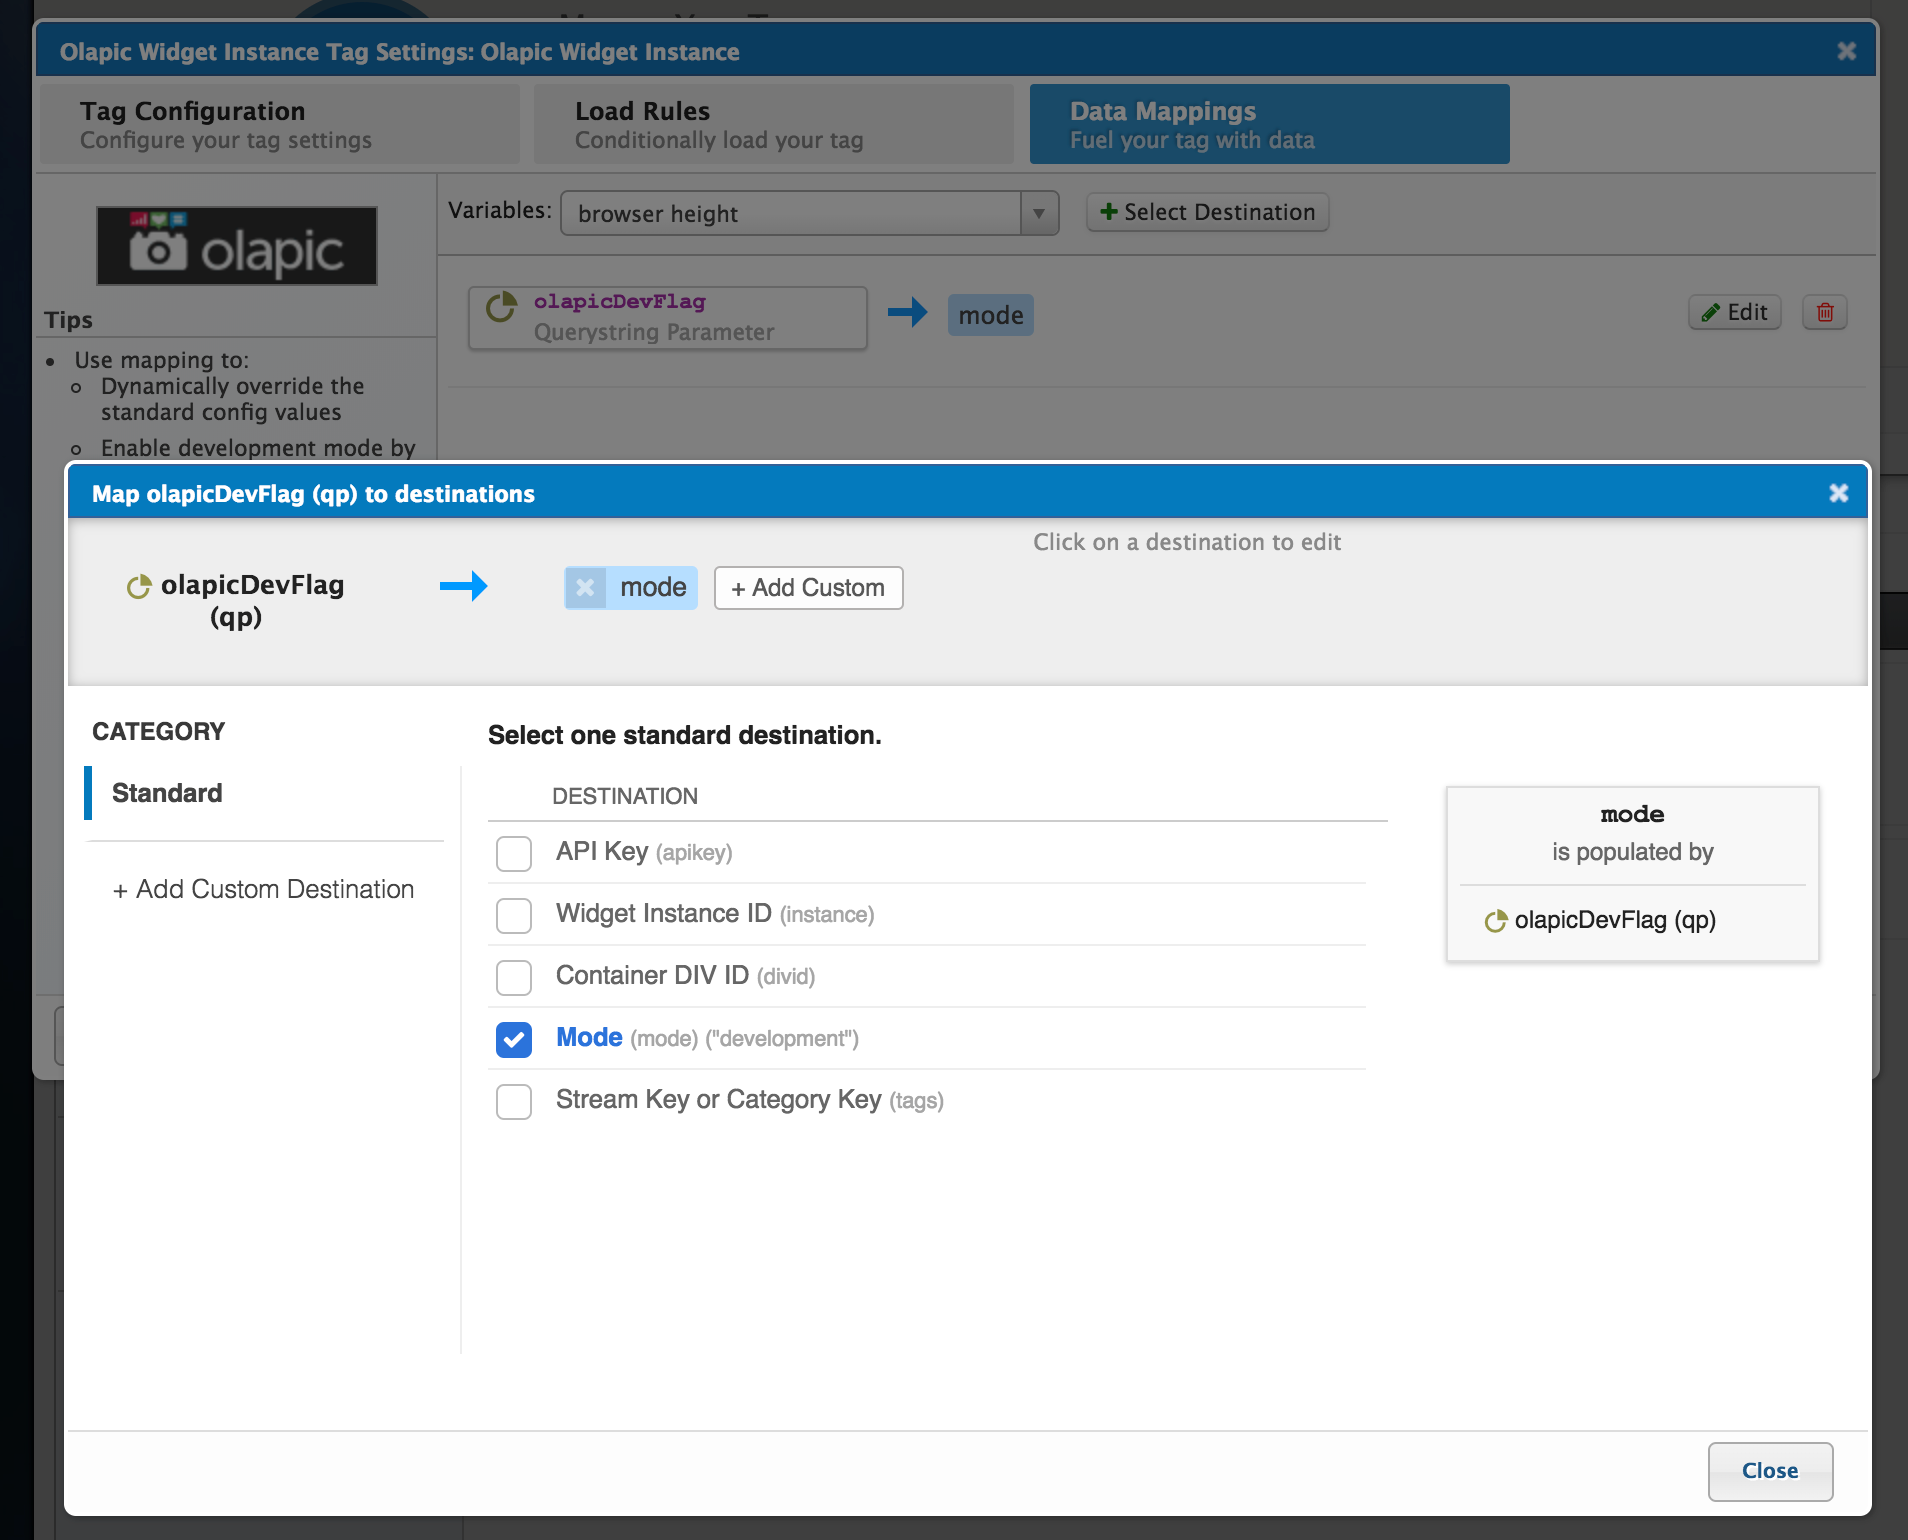
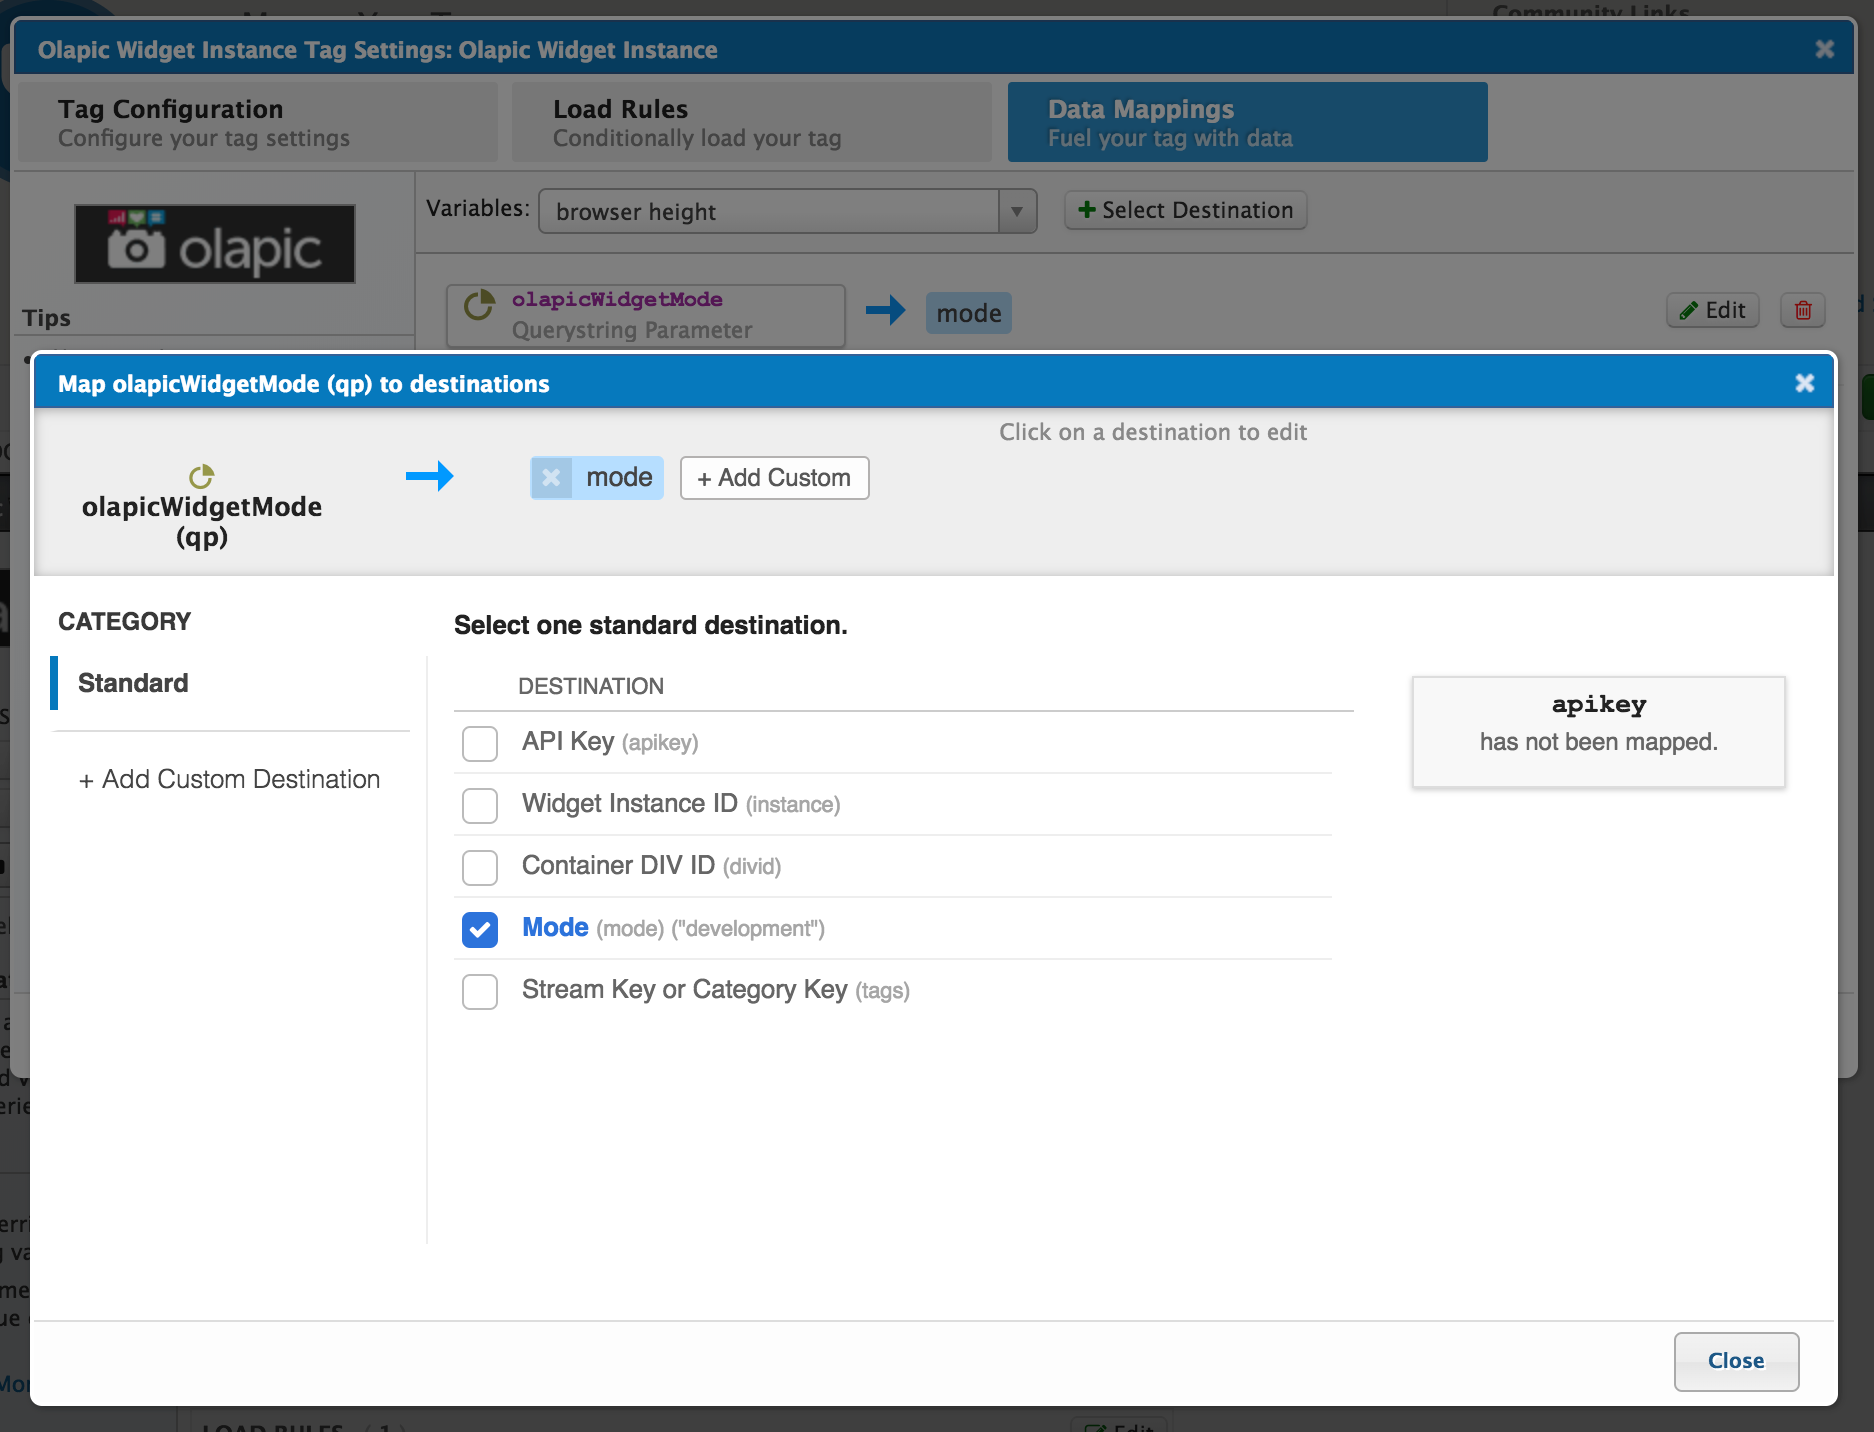
add checkout pixel tag install steps, new screenshots

diff --git a/_articles/tealium-tag-installation.md b/_articles/tealium-tag-installation.md
@@ -7,30 +7,34 @@ order: 2
 ---
 
 ## Overview
-There are two pre-confiugred Olapic tags that are currently available in Tealium's Tag Library:
+This article covers the install steps for the Olapic tags available in Tealium's Tag Marketplace.
+
+Below are the available tags:
 
 * Olapic Checkout Pixel Tag
 * Olapic Widget Instance Tag
   * Static Widget
   * Dynamic Widget (Stream or Category)
 
-This article covers the configuration steps for the above tag types.
-
 ## Widget Instance Tag
+
+The Olapic Widget Instance Tag allows you to load an Olapic Javascript Widget either in a *static* context (i.e., UGC widget on homepage or standalone gallery page) or in a *dynamic* context (i.e., UGC widget on product page or category page). 
+
+For more details on different types of content sources you can implement with an Olapic Javascript Widget, please refer to [Widget Management > Source](https://olapic1.zendesk.com/hc/en-us/articles/201605174-Widget-Management-Source#-widget-management-source).
 
 ### Static Widget Configuration
 
 The following step-by-step will walk you through the necessarys steps required to configure a **static** type widget (i.e., widget showing content from a specific stream or category, or using the "All Photos" setting in the Olapic Widget Manager).
 
-1. First, search for the Olapic tags in the Tags tab in the Tealium TMS, click the "+ Add" button next to the Olapic Widget Instance:
+1. First, search for "Olapic" in the search in the Tags Marketplace. You should see results for the two Olapic tags. Click the `+ Add` button next to the Olapic Widget Instance tag:
 
     ![](../img/tealium-tag-search.png)
 
-2. Fill in the fields under the Vendor configuration section. 
+2. In the Tag Configuration screen, type in the fields under the `Vendor Configuration` section. 
 
     ![](../img/tealium-tag-widget-config.png)
 
-    The `API Key`, `Widget Instance ID` values can be found within the Olapic widget code generated in the Widget Manager section within the Olapic admin (refer to the second screenshot below).
+    The `API Key` and `Widget Instance ID` values can be found within the Olapic widget code generated in the Widget Manager section within the Olapic admin (screenshot below). Fill in the appropriate div ID value for the `Container DIV ID`.
 
     ![](../img/tealium-tag-widget-instance.png)
 
@@ -39,15 +43,11 @@ The following step-by-step will walk you through the necessarys steps required t
       The container div with a specific ID that will hold the Olapic widget content is required in the DOM. If the element is not present on the the source level, use the <a href="https://community.tealiumiq.com/t5/iQ-Tag-Management/Content-Modification-Extension/ta-p/12194>"><strong>Tealium Content Modification extension</strong></a> to inject the element dynamically.
     </div>
 
-3. Set the appopriate Load Rules for the tag:
+3. Enable the appopriate Load Rules for the tag. In this example, we are using the rule `dom.pathname CONTAINS index.html`.
 
     ![](../img/tealium-tag-widget-loadrules.png)
 
-4. *Optional* –  Data Mapping. You can use the Data Mapping to load the widget using the Development Mode flag. For more details around the Development Mode, please see [Technical Overview of the Activate Tab](https://olapic1.zendesk.com/hc/en-us/articles/218238663-Technical-Overview-of-the-Activate-Tab#Development-Mode).
-
-    ![](../img/tealium-tag-widget-data-mapping.png)
-
-5. Save and publish the changes to the tag in the appropriate profile. Once published, check the site page that matches the load rule to ensure the widget is loading correctly.
+4. Save and publish the changes to the tag in the current profile. Once published, check the site page that matches the load rule to ensure the widget is loading correctly.
 
     ![](../img/tealium-tag-widget-homepage.png)
 
@@ -55,21 +55,21 @@ The following step-by-step will walk you through the necessarys steps required t
 
 The following step-by-step will walk you through the necessarys steps required to configure a **dynamic** type widget (i.e., widget showing content from a specific product stream or product category depending on key value passed on a category or product level page)
 
-1. First, search for the Olapic tags in the Tags tab in the Tealium TMS, click the "+ Add" button next to the Olapic Widget Instance:
+1. First, search for "Olapic" in the search in the Tags Marketplace. You should see results for the two Olapic tags. Click the `+ Add` button next to the Olapic Widget Instance tag:
 
     ![](../img/tealium-tag-search.png)
 
-2. Fill in the fields under the Vendor configuration section. 
+2. In the Tag Configuration screen, type in the fields under the `Vendor Configuration` section. 
 
     ![](../img/tealium-tag-widget-config.png)
 
-    The `API Key`, `Widget Instance ID` values can be found within the Olapic widget code generated in the Widget Manager section within the Olapic admin (refer to the second screenshot below).
+    The `API Key` and `Widget Instance ID` values can be found within the Olapic widget code generated in the Widget Manager section within the Olapic admin (screenshot below). Fill in the appropriate div ID value for the `Container DIV ID`.
 
     ![](../img/tealium-tag-widget-instance-dynamic.png)
 
     <div class="bs-callout bs-callout-warning">
-      <h4>Ensure that the Widget Source set to Dynamic</h4>
-      Be sure to use "Dynamic-Stream" or "Dynamic-Category" when setting up a dynamic widget.
+      <h4>Set the Widget Source set to Dynamic</h4>
+      Be sure to configure the widget to use "Dynamic-Stream" or "Dynamic-Category" when setting up a dynamic widget instance.
     </div>
 
     <div class="bs-callout bs-callout-warning">
@@ -77,15 +77,74 @@ The following step-by-step will walk you through the necessarys steps required t
       The container div with a specific ID that will hold the Olapic widget content is required in the DOM. If the element is not present on the the source level, use the <a href="https://community.tealiumiq.com/t5/iQ-Tag-Management/Content-Modification-Extension/ta-p/12194>"><strong>Tealium Content Modification extension</strong></a> to inject the element dynamically.
     </div>
 
-3. Set the appopriate Load Rules for the tag:
+3. Enable the appopriate Load Rules for the tag. In this example, we are using the rule `dom.pathname CONTAINS /product/`.
 
-    ![](../img/tealium-tag-widget-loadrules.png)
+    ![](../img/tealium-tag-widget-loadrules-dynamic.png)
 
-4. Set up the appropriate Data Mapping. You can use the Data Mapping to load the widget using a specific . For more details around the Development Mode, please see [Technical Overview of the Activate Tab](https://olapic1.zendesk.com/hc/en-us/articles/218238663-Technical-Overview-of-the-Activate-Tab#Development-Mode).
+4. Configure the appropriate Data Mapping to pass the *product* or *category* key from the page to the tag. Map the source value to the `Stream Key or Category Key` as the destination.
 
-    ![](../img/tealium-tag-widget-data-mapping.png)
+    ![](../img/tealium-tag-widget-data-mapping-dynamic.png)
 
-5. Save and publish the changes to the tag in the appropriate profile. Once published, check the site page that matches the load rule to ensure the widget is loading correctly.
+    Additionally, you can use the Data Mapping to load the widget using the Development Mode. For more details around the Development Mode, please see [Technical Overview of the Activate Tab](https://olapic1.zendesk.com/hc/en-us/articles/218238663-Technical-Overview-of-the-Activate-Tab#Development-Mode).
+
+5. Save and publish the changes to the tag in the current profile. Once published, check the page that match the load rule to ensure the widget is loading correctly.
 
     ![](../img/tealium-tag-widget-homepage.png)
 
+### Development Mode
+You can use the Data Mapping to load the Olapic widget using the `Development Mode` flag. 
+
+In the below example, we're using the `olapicWidgetMode` as the query parameter key, and pass the value into the `Mode` destination within the tag. 
+
+![](../img/tealium-tag-widget-data-mapping.png)
+
+So when the url looks like below, the Olapic Widget will be loaded using the `Development Mode` flag, which loads all of its template assets from the Olapic sandbox environment.
+
+```sh
+https://www.mystore.com/products/?olapicWidgetMode=development
+```
+
+For more details about the Development Mode, please see [Technical Overview of the Activate Tab](https://olapic1.zendesk.com/hc/en-us/articles/218238663-Technical-Overview-of-the-Activate-Tab#Development-Mode).
+
+## Checkout Pixel Tag
+
+Implementing the Olapic Checkout Code allows you to send important data from your conversion funnel to Olapic. The purpose of this code is to capture the data from the orders made by visitors, and tie the data back to Olapic components installed on your site.
+
+Once implemented, Olapic will be able to analyze the conversion funnel closely, and provide valuable insight in your Analytics dashboard.
+
+Note that the checkout code should be implemented on the order confirmation page. Specifically, on the page after the user has submitted the order to be processed.
+
+### Tag Configuration
+
+The following steps will walk you through how to enable the checkout pixel tag
+
+1. First, search for "Olapic" in the search in the Tags Marketplace. You should see results for the two Olapic tags. Click the `+ Add` button next to the Olapic Widget Instance tag:
+
+    ![](../img/tealium-tag-search.png)
+
+2. In the Tag Configuration screen, fill in the `API Key` under the `Vendor Configuration` section. 
+
+    ![](../img/tealium-tag-checkout-config.png)
+
+    The `API Key` value can be found in the [Settings page of your Olapic account](https://www.photorank.me/admin/settings#accountbasics).
+
+    ![](../img/tealium-tag-checkout-apikey.png)
+
+3. Enable the appopriate Load Rules for the tag. In this example, we are using the rule `dom.pathname CONTAINS /checkout/confirmation`. 
+
+    The Load Rule will be different depending on your e-commerce site's configuration.
+
+    ![](../img/tealium-tag-checkout-loadrules.png)
+
+4. The Olapic Checkout Pixel tag is pre-configured to be used with the Tealium E-commerce Extension. If you have the Tealium E-commerce Extension installed already, you do not have to configure the data mapping manually.
+
+    ![](../img/tealium-tag-checkout-data-mapping.png)
+
+    <div class="bs-callout bs-callout-info">
+      <h4>Manually configuring the Data Mapping</h4>
+      Depending on your e-commerce site's setup and configuration, the data layer may be exposed using a different method rather than Tealium's UDO. If you wish to learn more about the source code of the Checkout Pixel script and see what type of data we require, please refer to our <a href="../checkout-pixel-implementation-v2-public.html#instructions">Checkout Pixel Implementation</a> article.
+    </div>
+
+5. Save and publish the changes to the tag in the current profile. Once published, complete a full order checkout and ensure that the checkout code is loading correctly.
+
+    ![](../img/tealium-tag-widget-homepage.png)
